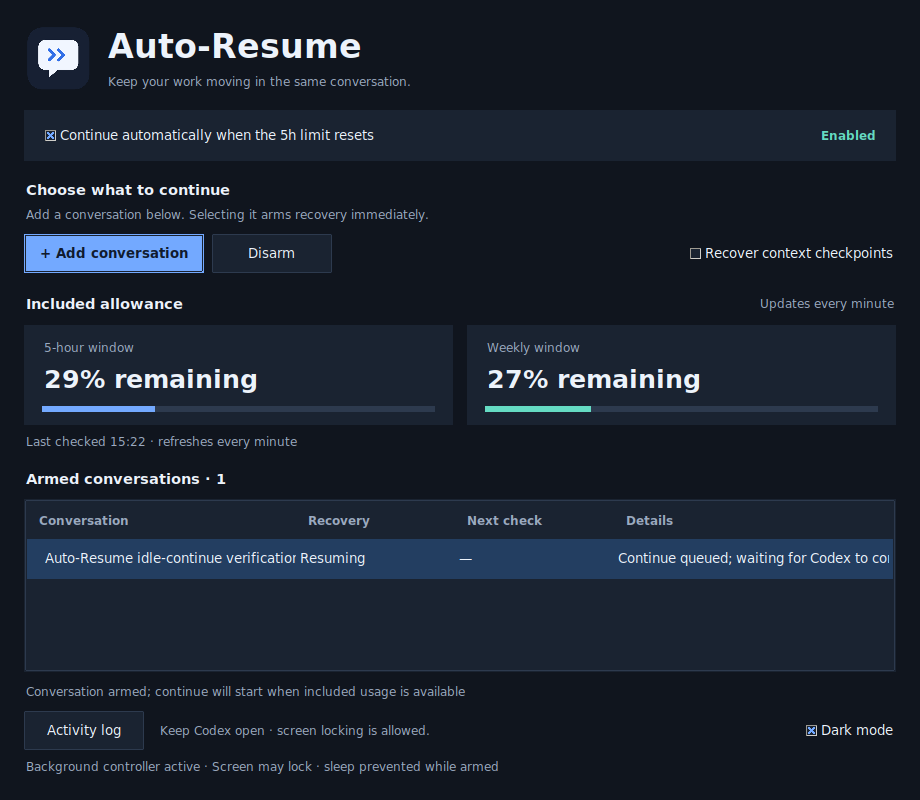
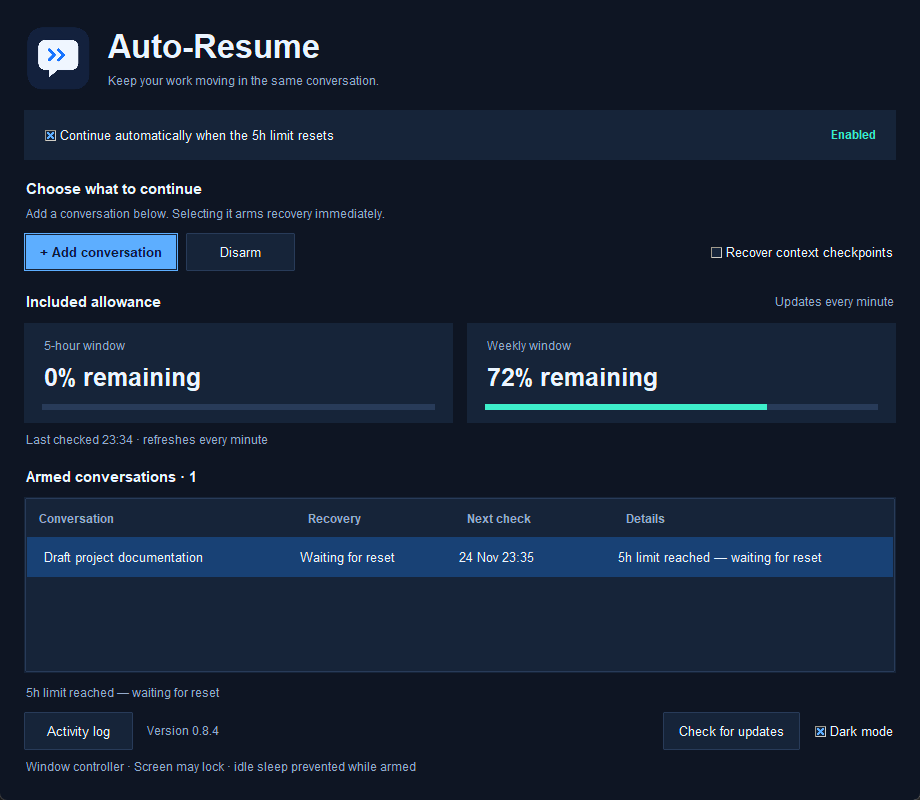
Refresh the website and downloads for v0.8.4

diff --git a/docs/index.html b/docs/index.html
@@ -9,11 +9,11 @@
   <meta property="og:title" content="Codex Auto-Resume">
   <meta property="og:description" content="Pick up in the same Codex conversation when included usage returns.">
   <meta property="og:url" content="https://manouselis.github.io/codex-auto-resume/">
-  <meta property="og:image" content="https://manouselis.github.io/codex-auto-resume/screenshots/dark.png">
+  <meta property="og:image" content="https://manouselis.github.io/codex-auto-resume/screenshots/dark.png?v=0.8.4">
   <link rel="canonical" href="https://manouselis.github.io/codex-auto-resume/">
   <link rel="icon" href="assets/auto-resume.png" type="image/png">
-  <link rel="stylesheet" href="assets/site.css">
-  <script src="assets/site.js" defer></script>
+  <link rel="stylesheet" href="assets/site.css?v=0.8.4">
+  <script src="assets/site.js?v=0.8.4" defer></script>
   <title>Codex Auto-Resume</title>
 </head>
 <body id="top">
@@ -53,8 +53,8 @@
               <button type="button" data-theme="light" aria-pressed="false" aria-controls="app-preview">Light</button>
             </div>
           </figcaption>
-          <img id="app-preview" src="screenshots/dark.png" width="920" height="800"
-            alt="Auto-Resume dark control panel showing included allowance and an example conversation in the recovery queue."
+          <img id="app-preview" src="screenshots/dark.png?v=0.8.4" width="920" height="800"
+            alt="Auto-Resume dark control panel showing included allowance, an example recovery queue, version 0.8.4, and Check for updates."
             fetchpriority="high">
         </figure>
       </div>
@@ -66,8 +66,8 @@
           <h2 id="downloads-title">Download for your desktop</h2>
           <p>Open the official Codex desktop app and sign in with ChatGPT Plus first.</p>
         </div>
-        <a class="release-link" id="release-details" href="https://github.com/Manouselis/codex-auto-resume/releases/tag/v0.8.3">
-          <span id="release-version">v0.8.3 beta</span> · Release notes
+        <a class="release-link" id="release-details" href="https://github.com/Manouselis/codex-auto-resume/releases/tag/v0.8.4">
+          <span id="release-version">v0.8.4 beta</span> · Release notes
         </a>
       </div>
       <div class="packages">
@@ -75,26 +75,49 @@
           <h3>Windows</h3>
           <p>Windows 11 · x64 or ARM with x64 emulation</p>
           <a class="button button-download" data-package="windows-x64-setup.exe"
-            href="https://github.com/Manouselis/codex-auto-resume/releases/download/v0.8.3/codex-auto-resume-0.8.3-windows-x64-setup.exe">Download installer</a>
+            href="https://github.com/Manouselis/codex-auto-resume/releases/download/v0.8.4/codex-auto-resume-0.8.4-windows-x64-setup.exe">Download installer</a>
         </article>
         <article class="package">
           <h3>Ubuntu</h3>
           <p>Ubuntu 22.04+ · x64</p>
           <a class="button button-download" data-package="linux-x64.deb"
-            href="https://github.com/Manouselis/codex-auto-resume/releases/download/v0.8.3/codex-auto-resume-0.8.3-linux-x64.deb">Download .deb</a>
+            href="https://github.com/Manouselis/codex-auto-resume/releases/download/v0.8.4/codex-auto-resume-0.8.4-linux-x64.deb">Download .deb</a>
         </article>
         <article class="package">
           <h3>macOS</h3>
           <p>Apple silicon with macOS 14+ or Intel with macOS 15+</p>
           <div class="package-buttons">
             <a class="button button-download" data-package="macos-arm64.dmg"
-              href="https://github.com/Manouselis/codex-auto-resume/releases/download/v0.8.3/codex-auto-resume-0.8.3-macos-arm64.dmg">Apple silicon</a>
+              href="https://github.com/Manouselis/codex-auto-resume/releases/download/v0.8.4/codex-auto-resume-0.8.4-macos-arm64.dmg">Apple silicon</a>
             <a class="button button-download" data-package="macos-x64.dmg"
-              href="https://github.com/Manouselis/codex-auto-resume/releases/download/v0.8.3/codex-auto-resume-0.8.3-macos-x64.dmg">Intel</a>
+              href="https://github.com/Manouselis/codex-auto-resume/releases/download/v0.8.4/codex-auto-resume-0.8.4-macos-x64.dmg">Intel</a>
           </div>
         </article>
       </div>
       <p class="download-note">The community installers are unsigned. Windows and macOS may ask for confirmation. <a href="https://github.com/Manouselis/codex-auto-resume/blob/main/docs/INSTALL.md">See the installation guide</a>.</p>
+    </section>
+
+    <section class="shell upgrade" aria-labelledby="upgrade-title">
+      <div class="upgrade-panel">
+        <div>
+          <h2 id="upgrade-title">New in 0.8.4</h2>
+          <p>The footer shows your installed version. Auto-Resume checks for updates when it opens. Accept the popup to download the verified installer, install it, and reopen the app.</p>
+          <p>The Microsoft Store Codex runtime can now list conversations and access the desktop queue when its managed daemon package is missing.</p>
+        </div>
+        <div>
+          <h3>Upgrading from an older version</h3>
+          <dl>
+            <div>
+              <dt>Windows</dt>
+              <dd>On 0.8.1–0.8.3, use <strong>Check for updates</strong> and select the version offered by <strong>Update to</strong>. Earlier builds need the installer.</dd>
+            </div>
+            <div>
+              <dt>Ubuntu and macOS</dt>
+              <dd>Install 0.8.4 or later once using the download above. Future updates will appear in the app.</dd>
+            </div>
+          </dl>
+        </div>
+      </div>
     </section>
 
     <section id="how-it-works" class="workflow" aria-labelledby="workflow-title">

diff --git a/docs/assets/site.css b/docs/assets/site.css
@@ -76,6 +76,14 @@ h3 { font-size: 1.25rem; font-weight: 740; letter-spacing: -.024em; }
 .button-download:hover { background: #dfefe3; }
 .download-note { color: var(--muted); margin-top: 16px; font-size: .9375rem; }
 
+.upgrade { padding-bottom: clamp(43px, 6vw, 76px); }
+.upgrade-panel { display: grid; grid-template-columns: minmax(0, 1fr) minmax(0, .88fr); gap: clamp(22px, 4vw, 54px); padding: clamp(21px, 4vw, 40px); border: 1px solid var(--line); border-radius: 11px; background: var(--white); }
+.upgrade-panel h2 { font-size: clamp(1.85rem, 3.1vw, 2.6rem); }
+.upgrade-panel p, .upgrade-panel dl { margin: 12px 0 0; color: var(--muted); }
+.upgrade-panel dl > div + div { margin-top: 12px; }
+.upgrade-panel dt { color: var(--ink); font-weight: 740; }
+.upgrade-panel dd { margin: 1px 0 0; }
+
 .workflow { background: #e6f0e8; border-block: 1px solid var(--line); }
 .workflow-layout, .safeguards { display: grid; grid-template-columns: minmax(0, .9fr) minmax(0, 1.1fr); gap: clamp(23px, 6vw, 80px); align-items: start; }
 .workflow h2 { max-width: 15ch; text-wrap: wrap; }
@@ -102,7 +110,7 @@ footer { background: #e9efea; border-top: 1px solid var(--line); }
   .packages { gap: 10px; }
 }
 @media (max-width: 730px) {
-  .hero-layout, .workflow-layout, .safeguards { grid-template-columns: 1fr; gap: 26px; }
+  .hero-layout, .workflow-layout, .safeguards, .upgrade-panel { grid-template-columns: 1fr; gap: 26px; }
   h1 { max-width: 11ch; }
   .hero-layout { padding-block: 35px; }
   .preview { max-width: 550px; }

diff --git a/docs/assets/site.js b/docs/assets/site.js
@@ -7,8 +7,8 @@ if (preview && themeButtons.length) {
   for (const button of themeButtons) {
     button.addEventListener("click", () => {
       const theme = button.dataset.theme;
-      preview.src = `screenshots/${theme}.png`;
-      preview.alt = `Auto-Resume ${theme} control panel showing included allowance and an example conversation in the recovery queue.`;
+      preview.src = `screenshots/${theme}.png?v=0.8.4`;
+      preview.alt = `Auto-Resume ${theme} control panel showing included allowance, an example recovery queue, version 0.8.4, and Check for updates.`;
       for (const item of themeButtons) {
         item.setAttribute("aria-pressed", String(item === button));
       }

diff --git a/README.md b/README.md
@@ -7,7 +7,7 @@ A desktop companion that continues explicitly armed conversations in the same ch
 [Project website](https://manouselis.github.io/codex-auto-resume/)
 
 [![Checks](https://github.com/Manouselis/codex-auto-resume/actions/workflows/ci.yml/badge.svg)](https://github.com/Manouselis/codex-auto-resume/actions/workflows/ci.yml)
-[![Desktop installers](https://github.com/Manouselis/codex-auto-resume/actions/workflows/desktop.yml/badge.svg)](https://github.com/Manouselis/codex-auto-resume/actions/workflows/desktop.yml) · **v0.8.3 beta** · MIT
+[![Desktop installers](https://github.com/Manouselis/codex-auto-resume/actions/workflows/desktop.yml/badge.svg)](https://github.com/Manouselis/codex-auto-resume/actions/workflows/desktop.yml) · **v0.8.4 beta** · MIT
 
 ## Download and open
 
@@ -15,12 +15,12 @@ Python and Tk are bundled. Install the official Codex desktop app and sign in to
 
 | Your computer | Download | Install |
 | --- | --- | --- |
-| Ubuntu 22.04+ · x64 | [Ubuntu installer](https://github.com/Manouselis/codex-auto-resume/releases/download/v0.8.3/codex-auto-resume-0.8.3-linux-x64.deb) | Open with Software Install for a fresh install. Use [APT for upgrades](docs/INSTALL.md#upgrade-an-existing-ubuntu-installation). |
-| Windows 11 · x64 / ARM with x64 emulation | [Windows installer](https://github.com/Manouselis/codex-auto-resume/releases/download/v0.8.3/codex-auto-resume-0.8.3-windows-x64-setup.exe) | Open the installer, then launch from Start. |
-| macOS · Apple silicon, 14+ | [Apple silicon app](https://github.com/Manouselis/codex-auto-resume/releases/download/v0.8.3/codex-auto-resume-0.8.3-macos-arm64.dmg) | Open the disk image and drag the app to Applications. |
-| macOS · Intel, 15+ | [Intel app](https://github.com/Manouselis/codex-auto-resume/releases/download/v0.8.3/codex-auto-resume-0.8.3-macos-x64.dmg) | Open the disk image and drag the app to Applications. |
+| Ubuntu 22.04+ · x64 | [Ubuntu installer](https://github.com/Manouselis/codex-auto-resume/releases/download/v0.8.4/codex-auto-resume-0.8.4-linux-x64.deb) | Open with Software Install for a fresh install. Use [APT for upgrades](docs/INSTALL.md#upgrade-an-existing-ubuntu-installation). |
+| Windows 11 · x64 / ARM with x64 emulation | [Windows installer](https://github.com/Manouselis/codex-auto-resume/releases/download/v0.8.4/codex-auto-resume-0.8.4-windows-x64-setup.exe) | Open the installer, then launch from Start. |
+| macOS · Apple silicon, 14+ | [Apple silicon app](https://github.com/Manouselis/codex-auto-resume/releases/download/v0.8.4/codex-auto-resume-0.8.4-macos-arm64.dmg) | Open the disk image and drag the app to Applications. |
+| macOS · Intel, 15+ | [Intel app](https://github.com/Manouselis/codex-auto-resume/releases/download/v0.8.4/codex-auto-resume-0.8.4-macos-x64.dmg) | Open the disk image and drag the app to Applications. |
 
-These community beta installers are unsigned, so Windows and macOS may ask for confirmation. See [installation help](docs/INSTALL.md), [checksums and release files](https://github.com/Manouselis/codex-auto-resume/releases/tag/v0.8.3), and the [compatibility test scope](docs/TESTING.md).
+These community beta installers are unsigned, so Windows and macOS may ask for confirmation. See [installation help](docs/INSTALL.md), [checksums and release files](https://github.com/Manouselis/codex-auto-resume/releases/tag/v0.8.4), and the [compatibility test scope](docs/TESTING.md).
 
 Starting with 0.8.4, installed Windows, Ubuntu, and macOS apps show their version and check for a newer release when opened. Accept the update popup to download, install, and reopen the app. Earlier Ubuntu and macOS versions need a one-time manual upgrade. Windows versions 0.8.1 and later can use their existing **Update to** button.
 

diff --git a/docs/INSTALL.md b/docs/INSTALL.md
@@ -1,6 +1,6 @@
 # Install Codex Auto-Resume
 
-Download your installer from the [v0.8.3 release](https://github.com/Manouselis/codex-auto-resume/releases/tag/v0.8.3). Python and Tk are bundled. Open the official Codex desktop app and sign in to ChatGPT Plus before adding conversations.
+Download your installer from the [v0.8.4 release](https://github.com/Manouselis/codex-auto-resume/releases/tag/v0.8.4). Python and Tk are bundled. Open the official Codex desktop app and sign in to ChatGPT Plus before adding conversations.
 
 ## Ubuntu
 
@@ -17,7 +17,7 @@ The application lives in `/opt/codex-auto-resume` and is available at `/usr/bin/
 Close Software Install if it is stalled. From the folder containing the new package, install it over the old version with APT. This also works if App Center only shows **Installed**.
 
 ```sh
-sudo apt install ./codex-auto-resume-0.8.3-linux-x64.deb
+sudo apt install ./codex-auto-resume-0.8.4-linux-x64.deb
 dpkg-query -W codex-auto-resume
 ```
 

diff --git a/docs/CHANGELOG.md b/docs/CHANGELOG.md
@@ -2,7 +2,7 @@
 
 [Documentation index](README.md) · [Verification report](TESTING.md)
 
-## 0.8.4
+## 0.8.4 — 24 November 2026
 
 - Display the installed version and offer verified in-app updates on Windows, Ubuntu, and macOS. Check automatically when the app opens, then install and reopen after confirmation.
 - Use the bundled Codex App Server to list desktop conversations and access the native queue when the managed daemon package is missing.
